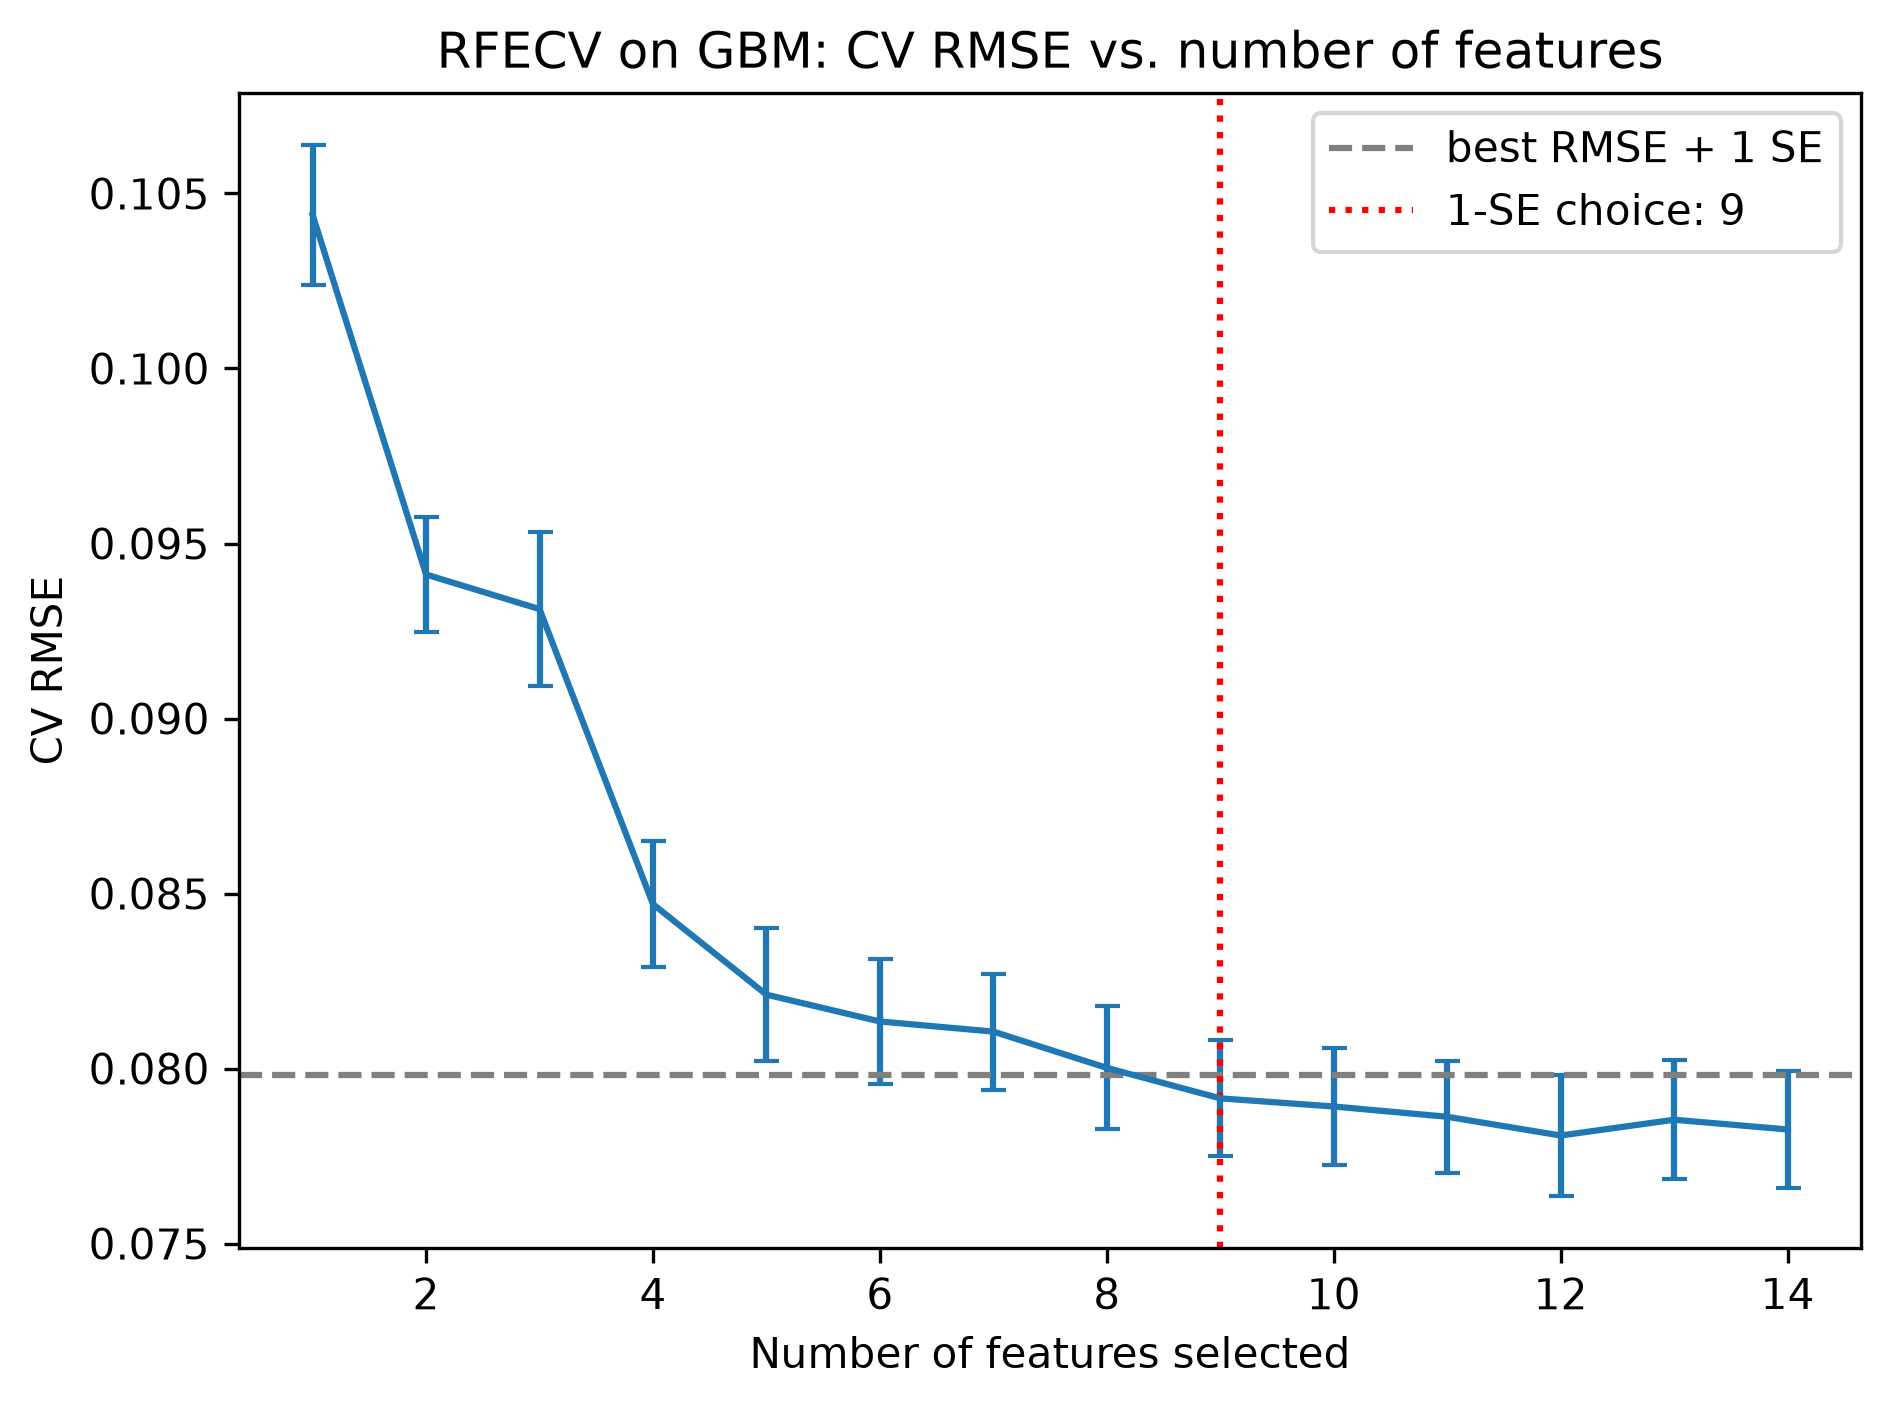
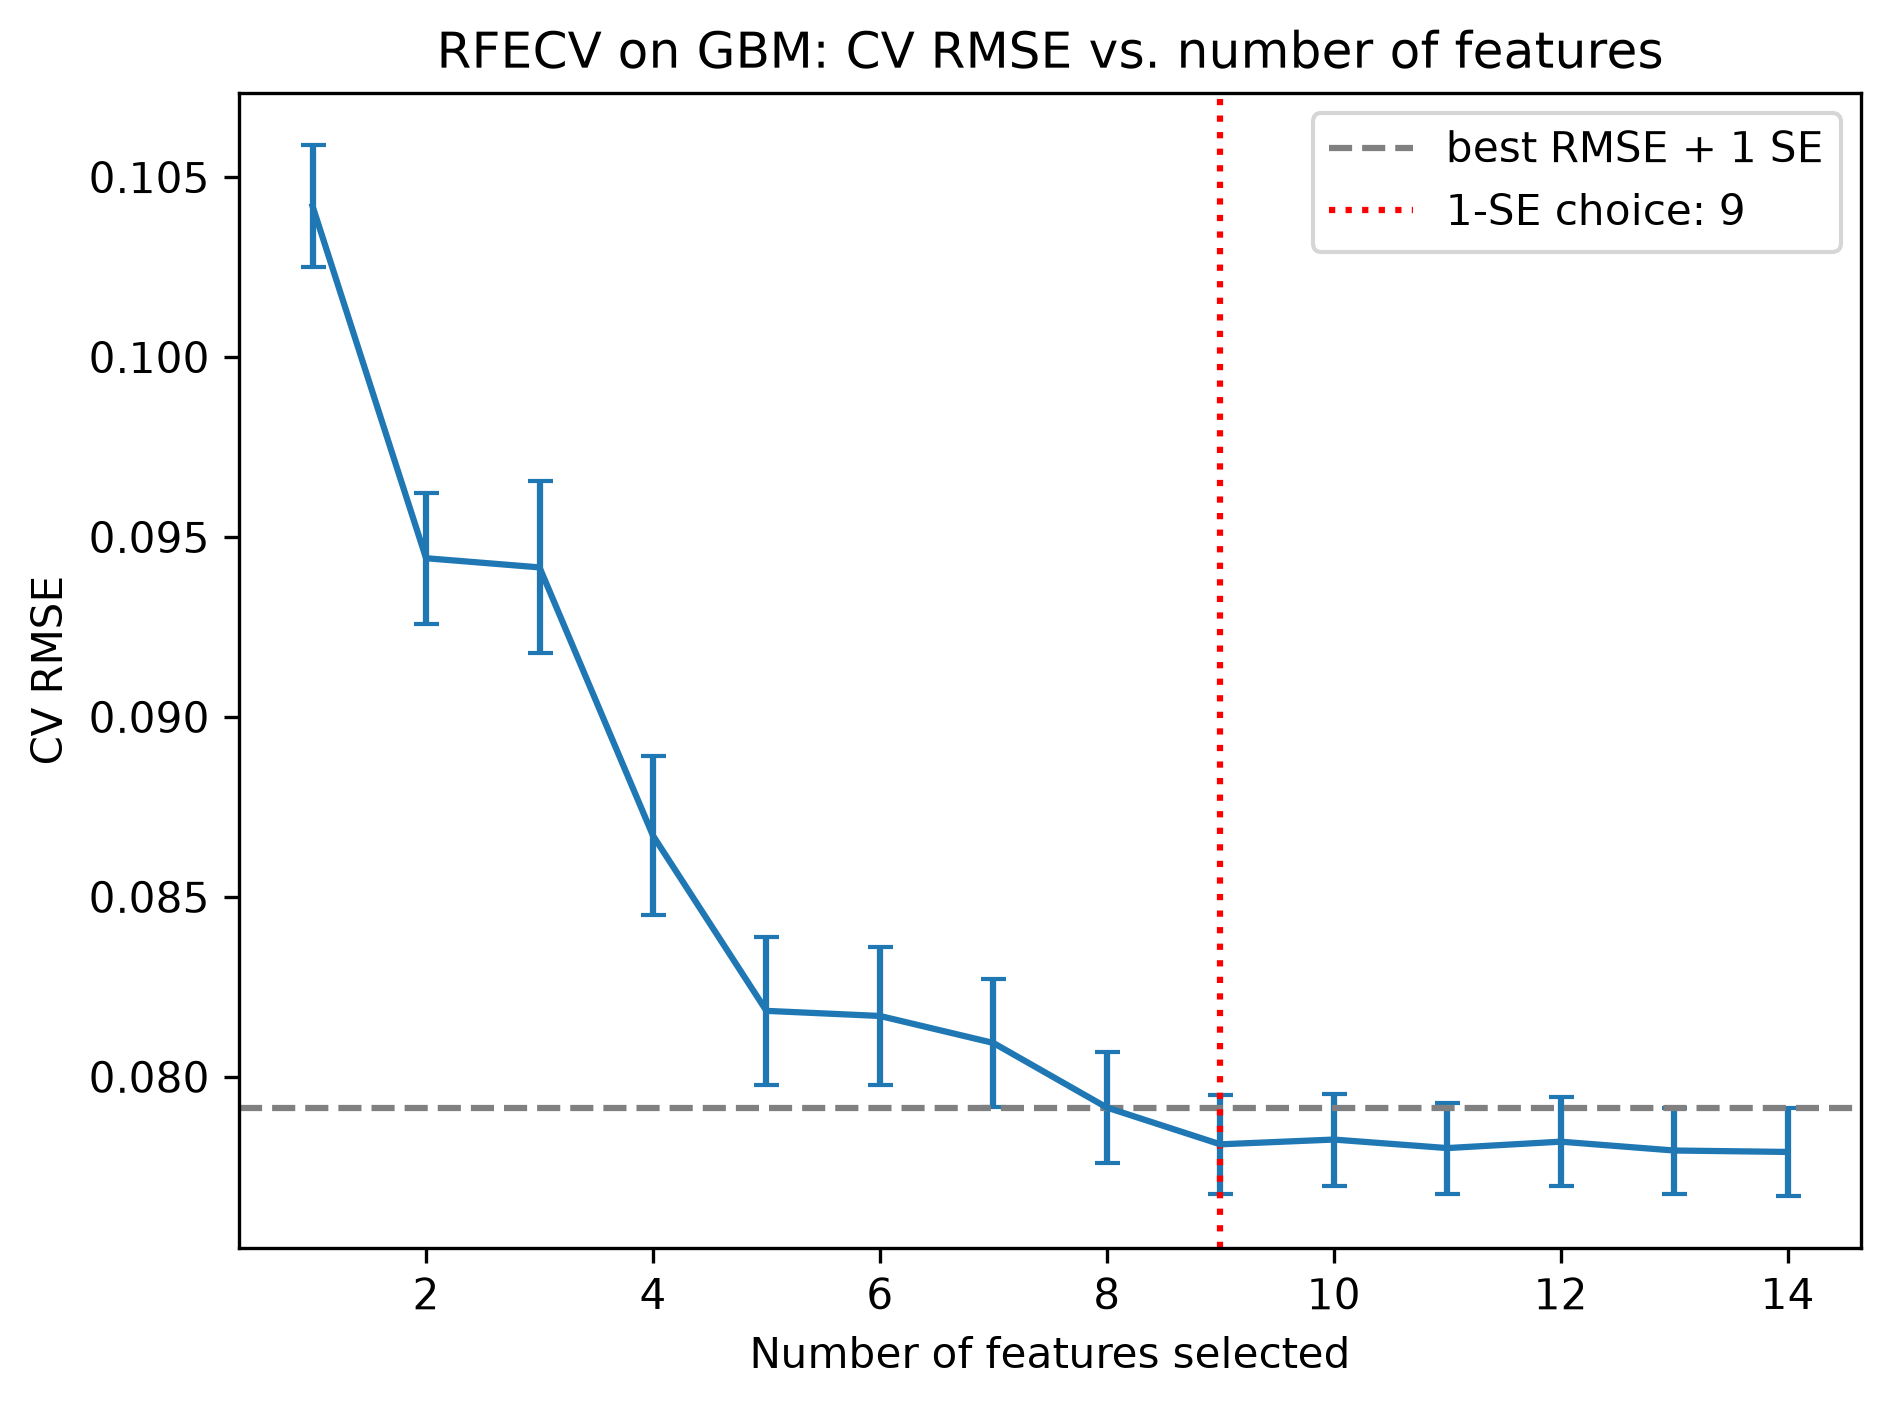
Updated ML weighting and other additions

diff --git a/athletic-spending-outcomes/Athletic_Spending_Outcomes.md b/athletic-spending-outcomes/Athletic_Spending_Outcomes.md
@@ -3,7 +3,7 @@
 **A cross-sectional analysis of the 2023 academic year**
 
 Valentino Salerni
-April 2026
+September 2026
 
 ---
 
